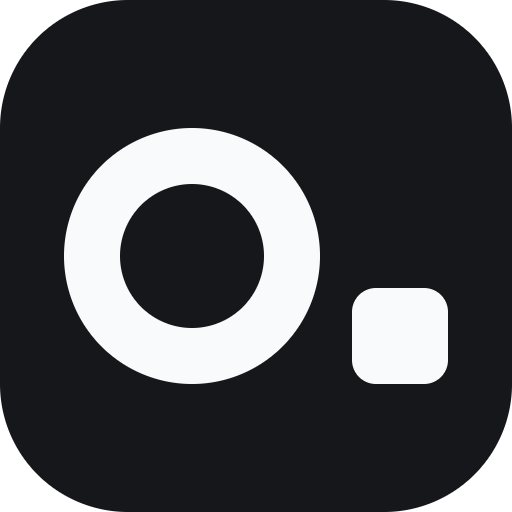
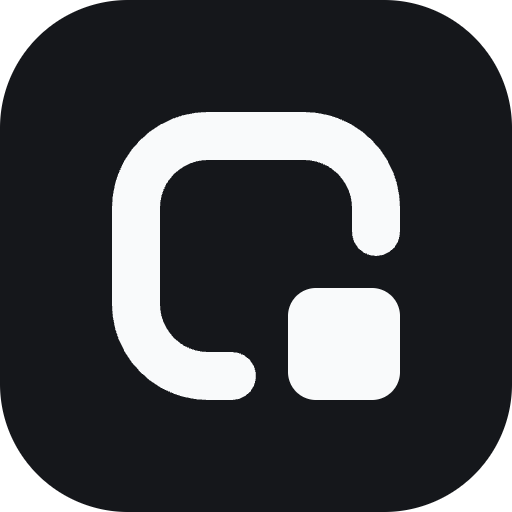
Marke: Bildmarke A „Eckstein“, Impressum mit Presio UG i. Gr.
Bildmarke auf Entwurf A umgestellt (Entscheidung Christoph, 20.10.2026): eckiges O als Rahmen, die
Einheit schließt die letzte Ecke. Alle Markendateien, PNG-Exporte, favicon.ico, Inline-Lockups der
Seiten und das Vorschaubild neu; BRAND.md mit Geometrie, bekannter Einschränkung bei 16 px und B als
dokumentierter Alternative.

Impressum und Datenschutz: Anbieter bzw. Verantwortlicher Presio UG (haftungsbeschränkt) i. Gr.,
Hohenzollernstr. 7, 80801 München, wie im Impressum von presio.eu. Offen bleiben Vertretung und
Telefon; der Entwurfsvermerk bleibt.

Claude-Session: https://claude.ai/code/session_013hiD8yTx4BCKTSzw96Dhdh

Changed region(s): [[0.125, 0.2188, 0.7812, 0.7812], [0.75, 0.5625, 0.875, 0.75]]

diff --git a/impressum.html b/impressum.html
@@ -24,8 +24,8 @@
       <svg class="lockup" viewBox="0 0 924.42 165" aria-hidden="true" focusable="false">
         <g transform="translate(0 15) scale(4.6875)">
           <rect class="lk-tile" width="32" height="32" rx="8"/>
-          <circle class="lk-ring" cx="12" cy="16" r="6.25" fill="none" stroke-width="3.5"/>
-          <rect class="lk-unit" x="22" y="18" width="6" height="6" rx="1.5"/>
+          <path class="lk-frame" d="M14.5 23.5H13a4.5 4.5 0 0 1-4.5-4.5v-6A4.5 4.5 0 0 1 13 8.5h6a4.5 4.5 0 0 1 4.5 4.5v1.5" fill="none" stroke-width="3" stroke-linecap="round" stroke-linejoin="round"/>
+          <rect class="lk-unit" x="18" y="18" width="7" height="7" rx="1.75"/>
         </g>
         <g transform="translate(202.5 40)" fill="none" stroke="currentColor">
           <path stroke-width="18" d="M607.13 50H514.42"/>
@@ -47,13 +47,15 @@
 <main id="inhalt" class="legal">
   <div class="wrap">
     <h1>Impressum</h1>
-    <p class="draft-banner"><strong>Entwurf – vor Veröffentlichung prüfen.</strong> Alle markierten Angaben fehlen noch und müssen vom Anbieter ergänzt und rechtlich geprüft werden.</p>
+    <p class="draft-banner"><strong>Entwurf – vor Veröffentlichung prüfen.</strong> Die markierten Angaben fehlen noch; alle Angaben müssen vom Anbieter ergänzt und rechtlich geprüft werden.</p>
 
     <h2>Angaben gemäß § 5 DDG</h2>
     <address>
-      <span class="ph">[Anbieter – Angabe folgt: Firma und Rechtsform]</span><br>
-      <span class="ph">[Straße und Hausnummer – Angabe folgt]</span><br>
-      <span class="ph">[Postleitzahl und Ort – Angabe folgt]</span>
+      Presio UG (haftungsbeschränkt) i. Gr.<br>
+      Unternehmergesellschaft (haftungsbeschränkt) in Gründung<br>
+      Hohenzollernstr. 7<br>
+      80801 München<br>
+      Deutschland
     </address>
 
     <h2>Vertreten durch</h2>
@@ -66,20 +68,22 @@
     </p>
 
     <h2>Registereintrag</h2>
-    <p><span class="ph">[Registergericht und Registernummer – Angabe folgt, sofern eingetragen]</span></p>
+    <p>Die Gesellschaft befindet sich in Gründung; die Eintragung ins Handelsregister ist in Vorbereitung.<br>
+      Voraussichtliches Registergericht: Amtsgericht München<br>
+      Registernummer: wird nach Eintragung ergänzt.</p>
 
     <h2>Umsatzsteuer-Identifikationsnummer</h2>
-    <p>Umsatzsteuer-Identifikationsnummer gemäß § 27a Umsatzsteuergesetz: <span class="ph">[USt-IdNr. – Angabe folgt, sofern vorhanden]</span></p>
+    <p>Umsatzsteuer-Identifikationsnummer gemäß § 27a Umsatzsteuergesetz: wird nach steuerlicher Erfassung ergänzt.</p>
 
     <h2>Verantwortlich für den Inhalt nach § 18 Abs. 2 MStV</h2>
-    <p><span class="ph">[Name und Anschrift – Angabe folgt]</span></p>
+    <p>Presio UG (haftungsbeschränkt) i. Gr., Hohenzollernstr. 7, 80801 München, Deutschland</p>
 
     <h2>Verbraucherstreitbeilegung</h2>
-    <p><span class="ph">[Angabe folgt – prüfen, ob und welche Angabe nach dem Verbraucherstreitbeilegungsgesetz nötig ist]</span></p>
+    <p>Wir sind nicht bereit oder verpflichtet, an Streitbeilegungsverfahren vor einer Verbraucherschlichtungsstelle teilzunehmen.</p>
 
     <h2>Schriften und Marke</h2>
     <p>Diese Website verwendet die Schriften Inter (The Inter Project Authors) und Geist Mono (The Geist Project Authors) unter der SIL Open Font License 1.1. Die Schriftdateien liegen auf diesem Server; die Lizenztexte stehen unter <a href="assets/fonts/OFL-Inter.txt">assets/fonts/OFL-Inter.txt</a> und <a href="assets/fonts/OFL-GeistMono.txt">assets/fonts/OFL-GeistMono.txt</a>.</p>
-    <p>Name und Zeichen „Ordaneo“: <span class="ph">[Inhaber der Marke – Angabe folgt]</span></p>
+    <p>Name und Zeichen „Ordaneo“: Presio UG (haftungsbeschränkt) i. Gr.</p>
 
     <p class="meta">Stand: Entwurf vom 20.10.2026</p>
   </div>

diff --git a/index.html b/index.html
@@ -36,8 +36,8 @@
       <svg class="lockup" viewBox="0 0 924.42 165" aria-hidden="true" focusable="false">
         <g transform="translate(0 15) scale(4.6875)">
           <rect class="lk-tile" width="32" height="32" rx="8"/>
-          <circle class="lk-ring" cx="12" cy="16" r="6.25" fill="none" stroke-width="3.5"/>
-          <rect class="lk-unit" x="22" y="18" width="6" height="6" rx="1.5"/>
+          <path class="lk-frame" d="M14.5 23.5H13a4.5 4.5 0 0 1-4.5-4.5v-6A4.5 4.5 0 0 1 13 8.5h6a4.5 4.5 0 0 1 4.5 4.5v1.5" fill="none" stroke-width="3" stroke-linecap="round" stroke-linejoin="round"/>
+          <rect class="lk-unit" x="18" y="18" width="7" height="7" rx="1.75"/>
         </g>
         <g transform="translate(202.5 40)" fill="none" stroke="currentColor">
           <path stroke-width="18" d="M607.13 50H514.42"/>
@@ -484,8 +484,8 @@
       <svg class="lockup" viewBox="0 0 924.42 165" role="img" aria-label="Ordaneo" focusable="false">
         <g transform="translate(0 15) scale(4.6875)">
           <rect class="lk-tile" width="32" height="32" rx="8"/>
-          <circle class="lk-ring" cx="12" cy="16" r="6.25" fill="none" stroke-width="3.5"/>
-          <rect class="lk-unit" x="22" y="18" width="6" height="6" rx="1.5"/>
+          <path class="lk-frame" d="M14.5 23.5H13a4.5 4.5 0 0 1-4.5-4.5v-6A4.5 4.5 0 0 1 13 8.5h6a4.5 4.5 0 0 1 4.5 4.5v1.5" fill="none" stroke-width="3" stroke-linecap="round" stroke-linejoin="round"/>
+          <rect class="lk-unit" x="18" y="18" width="7" height="7" rx="1.75"/>
         </g>
         <g transform="translate(202.5 40)" fill="none" stroke="currentColor">
           <path stroke-width="18" d="M607.13 50H514.42"/>

diff --git a/datenschutz.html b/datenschutz.html
@@ -24,8 +24,8 @@
       <svg class="lockup" viewBox="0 0 924.42 165" aria-hidden="true" focusable="false">
         <g transform="translate(0 15) scale(4.6875)">
           <rect class="lk-tile" width="32" height="32" rx="8"/>
-          <circle class="lk-ring" cx="12" cy="16" r="6.25" fill="none" stroke-width="3.5"/>
-          <rect class="lk-unit" x="22" y="18" width="6" height="6" rx="1.5"/>
+          <path class="lk-frame" d="M14.5 23.5H13a4.5 4.5 0 0 1-4.5-4.5v-6A4.5 4.5 0 0 1 13 8.5h6a4.5 4.5 0 0 1 4.5 4.5v1.5" fill="none" stroke-width="3" stroke-linecap="round" stroke-linejoin="round"/>
+          <rect class="lk-unit" x="18" y="18" width="7" height="7" rx="1.75"/>
         </g>
         <g transform="translate(202.5 40)" fill="none" stroke="currentColor">
           <path stroke-width="18" d="M607.13 50H514.42"/>
@@ -51,8 +51,8 @@
 
     <h2>1. Verantwortlicher</h2>
     <address>
-      <span class="ph">[Anbieter – Angabe folgt: Firma und Rechtsform]</span><br>
-      <span class="ph">[Anschrift – Angabe folgt]</span><br>
+      Presio UG (haftungsbeschränkt) i. Gr.<br>
+      Hohenzollernstr. 7, 80801 München, Deutschland<br>
       E-Mail: <a href="mailto:kontakt@ordaneo.de">kontakt@ordaneo.de</a>
     </address>
     <p>Datenschutzbeauftragte(r): <span class="ph">[Angabe folgt, sofern benannt]</span></p>

diff --git a/assets/site.css b/assets/site.css
@@ -59,7 +59,7 @@
   --band-accent: #ec955c;     /* Kupfer hell: Textstufe auf Graphit */
   --band-line: #2c3038;
   --logo-tile: #15171b;
-  --logo-ring: #f9fafb;
+  --logo-line: #f9fafb;
   --logo-unit: #c0500c;
   --shot-hatch: rgba(21, 23, 27, 0.045);
   --shadow: 0 1px 2px rgba(16, 18, 22, 0.05), 0 12px 32px -12px rgba(16, 18, 22, 0.14);
@@ -93,7 +93,7 @@
     --band-surface: #1b1e23;
     --band-line: #2c3038;
     --logo-tile: #f3f4f6;
-    --logo-ring: #0e1114;
+    --logo-line: #0e1114;
     --logo-unit: #c0500c;
     --shot-hatch: rgba(243, 244, 246, 0.04);
     --shadow: 0 1px 2px rgba(0, 0, 0, 0.3), 0 16px 40px -16px rgba(0, 0, 0, 0.6);
@@ -143,7 +143,7 @@ code, .mono { font-family: var(--mono); font-size: 0.92em; font-variant-numeric:
 /* ---------- Logo ---------- */
 .lockup { height: 26px; width: auto; color: var(--fg); }
 .lockup .lk-tile { fill: var(--logo-tile); }
-.lockup .lk-ring { stroke: var(--logo-ring); }
+.lockup .lk-frame { stroke: var(--logo-line); }
 .lockup .lk-unit { fill: var(--logo-unit); }
 
 /* ---------- Kopf ---------- */

diff --git a/404.html b/404.html
@@ -24,8 +24,8 @@
       <svg class="lockup" viewBox="0 0 924.42 165" aria-hidden="true" focusable="false">
         <g transform="translate(0 15) scale(4.6875)">
           <rect class="lk-tile" width="32" height="32" rx="8"/>
-          <circle class="lk-ring" cx="12" cy="16" r="6.25" fill="none" stroke-width="3.5"/>
-          <rect class="lk-unit" x="22" y="18" width="6" height="6" rx="1.5"/>
+          <path class="lk-frame" d="M14.5 23.5H13a4.5 4.5 0 0 1-4.5-4.5v-6A4.5 4.5 0 0 1 13 8.5h6a4.5 4.5 0 0 1 4.5 4.5v1.5" fill="none" stroke-width="3" stroke-linecap="round" stroke-linejoin="round"/>
+          <rect class="lk-unit" x="18" y="18" width="7" height="7" rx="1.75"/>
         </g>
         <g transform="translate(202.5 40)" fill="none" stroke="currentColor">
           <path stroke-width="18" d="M607.13 50H514.42"/>

diff --git a/tools/og.html b/tools/og.html
@@ -33,8 +33,8 @@
   <svg class="lockup" viewBox="0 0 924.42 165" role="img" aria-label="Ordaneo" color="#f9fafb">
     <g transform="translate(0 15) scale(4.6875)">
       <rect width="32" height="32" rx="8" fill="#f3f4f6"/>
-      <circle cx="12" cy="16" r="6.25" fill="none" stroke="#0e1114" stroke-width="3.5"/>
-      <rect x="22" y="18" width="6" height="6" rx="1.5" fill="#c0500c"/>
+      <path d="M14.5 23.5H13a4.5 4.5 0 0 1-4.5-4.5v-6A4.5 4.5 0 0 1 13 8.5h6a4.5 4.5 0 0 1 4.5 4.5v1.5" fill="none" stroke="#0e1114" stroke-width="3" stroke-linecap="round" stroke-linejoin="round"/>
+      <rect x="18" y="18" width="7" height="7" rx="1.75" fill="#c0500c"/>
     </g>
     <g transform="translate(202.5 40)" fill="none" stroke="currentColor">
       <path stroke-width="18" d="M607.13 50H514.42"/>

diff --git a/assets/brand/BRAND.md b/assets/brand/BRAND.md
@@ -1,21 +1,21 @@
 # Ordaneo · Marke
 
-Stand: 20.10.2026 · Version 1.0 · ersetzt den Arbeitstitel „Merxo“
+Stand: 20.10.2026 · Version 1.1 (Bildmarke A „Eckstein“) · ersetzt den Arbeitstitel „Merxo“
 
 Ordaneo ist eine mandantenfähige Warenwirtschaft für Lager, Filialen, Handel und Großhandel. Der Name kommt von
 *ordnen* bzw. lateinisch *ordo*, Ordnung und Reihe. Die Marke soll genau das ausstrahlen: ruhig, präzise,
 vertrauenswürdig. Sie bleibt wie die Anwendung bewusst farblos (Graphit und Hell); Farbe bringt in der Anwendung der
 Mandant mit, auf der Website eine einzige Akzentfarbe.
 
-## 1 · Idee: „o.“
+## 1 · Idee: „Eckstein“
 
-Die Bildmarke zeigt ein **o** und einen **Punkt**.
+Die Bildmarke zeigt ein **eckiges O**, dessen letzte Ecke die **Einheit** schließt.
 
-- Das **o** ist der erste und letzte Buchstabe von „ordaneo“ und steht für *ordo*: ein geschlossener, gleichmäßiger Kreis.
-- Der **Punkt** ist die „Einheit“, die schon das alte Zeichen kannte: ein kleines Quadrat, das genau auf der Grundlinie
-  an seinem Platz steht. Gleichzeitig ist er der Schlusspunkt: gebucht, gezählt, abgeschlossen.
-- Rund gegen eckig ergibt den Kontrast zwischen Ordnung (Kreis) und Ware (Quadrat), ohne dass Kiste, Einkaufswagen,
-  Zahnrad oder Pfeil nötig wären.
+- Das **O** ist der erste Buchstabe von „ordaneo“ und steht für *ordo*: ein Rahmen mit gleichmäßig gerundeten Ecken,
+  in dem alles seinen Platz hat.
+- Die **Einheit** ist das kleine Quadrat, das schon das alte Zeichen kannte. Sie sitzt dort, wo der Rahmen offen ist,
+  und macht ihn vollständig: Die Ware kommt an ihren Platz, der Vorgang ist abgeschlossen.
+- Rahmen und Einheit bleiben getrennt. So entsteht die Form ohne Kiste, Einkaufswagen, Zahnrad oder Pfeil.
 
 ## 2 · Entwürfe und Entscheidung
 
@@ -24,22 +24,24 @@ kamen in den Vergleich:
 
 | Entwurf | Idee | Ergebnis |
 |---|---|---|
-| A · Eckstein | eckiges O als Rahmen, die Einheit schließt die letzte offene Ecke | kräftige Silhouette, liest sich bei 16 px aber als „G“ oder „Q“ |
-| **B · o-Punkt** | o und Punkt, die Einheit auf der Grundlinie | **gewählt** |
+| **A · Eckstein** | eckiges O als Rahmen, die Einheit schließt die letzte offene Ecke | **gewählt** (Christoph Gerhardt, 20.10.2026) |
+| B · o-Punkt | o und Punkt, die Einheit auf der Grundlinie | Alternative, siehe unten |
 | C · Platz | Rahmen mit der Einheit genau in der Mitte | am ruhigsten, aber verwechselbar mit „Aufnahme stoppen“ und einem Optionsfeld; in Rot (Mandantenfarbe) wäre es ein Aufnahmeknopf |
 
 Verworfen wurden außerdem drei Zeilen mit Einheit (wirkt wie ein Listen- oder Menü-Symbol), ein Anschlagwinkel (wirkt
 wie Diagrammachsen), ein Fach in U-Form (liest sich als „U“), ein offener Ring mit Einheit (wirkt wie „Neu laden“) und
 gedrehte Varianten von A (wirken wie „C“ bzw. „Rückgängig“).
 
-**Warum B:**
+**Warum A:** kräftige, eigenständige Silhouette; die Kachelform wiederholt sich im Zeichen, und die Einheit hat eine
+klare Aufgabe (sie schließt den Rahmen). Genau ein Element, die Einheit, kann die Hausfarbe des Mandanten tragen.
 
-1. **Bei 16 px eindeutig.** Ring und Punkt bleiben getrennt, der Punkt sitzt auf ganzen Pixeln (16 und 32 px scharf),
-   nichts läuft zu.
-2. **Kein bekanntes Bedienelement.** A erinnert an Buchstaben, C an Medien- und Formular-Symbole; B nicht.
-3. **Trägt die Hausfarbe.** Wie bisher kann genau ein Element die Farbe des Mandanten annehmen. Ein farbiger Punkt neben
-   einem graphitfarbenen o wirkt bei jeder Farbe ruhig, auch bei Rot oder Gelb.
-4. **Passt zur Wortmarke.** Der Ring ist derselbe geometrische Kreis wie die beiden o in „ordaneo“.
+**Bekannte Einschränkung:** Bei 16 px kann das Zeichen als „G“ oder „Q“ gelesen werden. Die Einheit liegt bei 32 px
+auf ganzen Pixeln, bei 16 px ist ihre rechte und untere Kante eine halbe Pixelreihe weich. Eine Verschiebung um höchstens
+0,5 Einheiten macht nicht beide Kanten scharf; die Geometrie bleibt deshalb wie entworfen.
+
+**Alternative B „o-Punkt“** (nicht verwendet, zur Dokumentation): Kreis um x 12 / y 16, Radius 6,25, Strichstärke 3,5;
+Einheit 6 × 6 bei x 22 / y 18, Radius 1,5. Bei 16 px eindeutiger, weil Kreis und Punkt nicht an Buchstaben erinnern;
+die Dateien liegen nicht mehr im Ordner, lassen sich aber mit diesen Maßen neu erzeugen.
 
 ## 3 · Bildmarke: Geometrie
 
@@ -48,27 +50,29 @@ Raster 32 × 32, drei Elemente, gleicher Aufbau wie das bisherige Zeichen (gleic
 | Element | Geometrie | Farbe hell | Farbe dunkel |
 |---|---|---|---|
 | Kachel | Quadrat 32 × 32, Eckenradius 8 | `--color-inverse` (Graphit `#15171b`) | `--color-inverse` (`#f3f4f6`) |
-| Ring (o) | Kreis um x 12 / y 16, Radius 6,25 (Mittellinie), Strichstärke 3,5 | `--color-fg-inverse` | `--color-fg-inverse` |
-| Einheit (Punkt) | Quadrat 6 × 6 bei x 22 / y 18, Eckenradius 1,5 | `--color-logo-unit`: ohne Hausfarbe wie der Ring, mit Hausfarbe `accent-400` | ohne Hausfarbe wie der Ring, mit Hausfarbe `accent-600` |
+| Rahmen (O) | offener Linienzug, Mittellinie x 8,5 bis 23,5 und y 8,5 bis 23,5, Eckenradius 4,5, Strichstärke 3, runde Enden; offen zwischen x 14,5 (unten) und y 14,5 (rechts) | `--color-fg-inverse` | `--color-fg-inverse` |
+| Einheit | Quadrat 7 × 7 bei x 18 / y 18, Eckenradius 1,75 | `--color-logo-unit`: ohne Hausfarbe wie der Rahmen, mit Hausfarbe `accent-400` | ohne Hausfarbe wie der Rahmen, mit Hausfarbe `accent-600` |
 
-Kontrollmaße: Außenkanten des Rings bei x 4 bis 20 und y 8 bis 24; Abstand Ring–Einheit 2; Einheit unten bündig mit
-dem Ring (y 24). Das Zeichen ist im Raster genau mittig (x 4 bis 28, y 8 bis 24). Die Einheit liegt auf geraden
-Koordinaten und ist deshalb bei 16 und 32 px pixelscharf.
+Kontrollmaße: Außenkanten des Rahmens bei x 7 bis 25 und y 7 bis 25; die Einheit schließt bündig mit der rechten und
+unteren Außenkante (25); Abstand zwischen den runden Enden des Rahmens und der Einheit 2. Das Zeichen ist im Raster
+genau mittig (7 bis 25 in beiden Richtungen). Bei 32 px liegen Rahmen und Einheit auf ganzen Pixeln.
 
 ```svg
 <svg xmlns="http://www.w3.org/2000/svg" viewBox="0 0 32 32" role="img" aria-label="Ordaneo">
   <rect width="32" height="32" rx="8" fill="var(--color-inverse, #15171b)"/>
-  <circle cx="12" cy="16" r="6.25" fill="none" stroke="var(--color-fg-inverse, #f9fafb)" stroke-width="3.5"/>
-  <rect x="22" y="18" width="6" height="6" rx="1.5" fill="var(--color-logo-unit, #f9fafb)"/>
+  <path d="M14.5 23.5H13a4.5 4.5 0 0 1-4.5-4.5v-6A4.5 4.5 0 0 1 13 8.5h6a4.5 4.5 0 0 1 4.5 4.5v1.5" fill="none"
+        stroke="var(--color-fg-inverse, #f9fafb)" stroke-width="3" stroke-linecap="round" stroke-linejoin="round"/>
+  <rect x="18" y="18" width="7" height="7" rx="1.75" fill="var(--color-logo-unit, #f9fafb)"/>
 </svg>
 ```
 
 **Varianten**
 
-- **Ohne Kachel** (`ordaneo-symbol.svg`; Inline-Zeichen, KI-Assistent, Stempel): kräftiger gezeichnet. Kreis um
-  x 11 / y 16, Radius 7,75, Strichstärke 4; Einheit 7 × 7 bei x 23 / y 18,75, Radius 1,75. Farbe `currentColor`; in
-  der Anwendung darf die Einheit `--color-accent` tragen.
-- **Einfarbig** (Belegdruck schwarz-weiß, Stempel): Einheit in derselben Farbe wie der Ring. Das ist zugleich die
+- **Ohne Kachel** (`ordaneo-symbol.svg`; Inline-Zeichen, KI-Assistent, Stempel): dieselbe Form um den Mittelpunkt auf
+  das 1,5-Fache vergrößert, Strichstärke 4,5; Rahmen-Mittellinie x/y 4,75 bis 27,25, Eckenradius 6,75; Einheit
+  10,5 × 10,5 bei x 19 / y 19, Radius 2,625. Außenmaß 2,5 bis 29,5. Farbe `currentColor`; in der Anwendung darf die
+  Einheit `--color-accent` tragen.
+- **Einfarbig** (Belegdruck schwarz-weiß, Stempel): Einheit in derselben Farbe wie der Rahmen. Das ist zugleich die
   Rückfallfarbe der Datei, wenn keine Variablen gesetzt sind.
 - **Dunkel** (`ordaneo-mark-dark.svg`): helle Kachel `#f3f4f6`, Zeichen `#0e1114`, feste Farben für dunkle Flächen
   außerhalb der Anwendung.
@@ -95,8 +99,8 @@ Die Pfade sind Linienzüge (`stroke`). In Figma oder Illustrator lassen sie sich
 
 - Kachelhöhe = 1,5 × x-Höhe, vertikal mittig zur x-Höhe (die Oberlänge des d ragt darüber hinaus).
 - Abstand Kachel–Wortmarke = 0,35 × Kachelhöhe.
-- Nur als ganze Datei verwenden (`ordaneo-lockup.svg` bzw. `-dark.svg`), nicht nachbauen. Die Anwendung setzt die
-  Wortmarke derzeit als Text (Inter 600); beim Umbenennen sollte `Logo.tsx` im Lockup die Wortmarken-Pfade verwenden.
+- Nur als ganze Datei verwenden (`ordaneo-lockup.svg` bzw. `-dark.svg`), nicht nachbauen. In der Anwendung zeichnet
+  `Logo.tsx` den Lockup mit denselben Wortmarken-Pfaden.
 
 ## 6 · Farben
 
@@ -105,7 +109,7 @@ Die Pfade sind Linienzüge (`stroke`). In Figma oder Illustrator lassen sie sich
 | Graphit | `#15171b` (neutral-900) | Kachel hell, Wortmarke hell, Text |
 | Hell | `#f9fafb` (neutral-50) | Zeichen auf Graphit, Wortmarke dunkel, Seitengrund hell |
 | Kachel dunkel | `#f3f4f6` (neutral-100) | Kachel auf dunklem Grund (wie im dunklen Theme) |
-| Zeichen dunkel | `#0e1114` (neutral-950) | Ring und Einheit auf heller Kachel |
+| Zeichen dunkel | `#0e1114` (neutral-950) | Rahmen und Einheit auf heller Kachel |
 | **Akzent Kupfer** | **`#C0500C`** | nur Website: Hauptaktion, Links auf hellem Grund, wahlweise die Einheit im Zeichen |
 | Kupfer hell | `#EC955C` | Links und kleine Akzentschrift auf dunklem Grund; Schaltfläche dunkel mit Graphit-Schrift |
 | Kupfer tief | `#A4430A` | Hover/gedrückt auf hellem Grund |
@@ -114,7 +118,7 @@ Die Pfade sind Linienzüge (`stroke`). In Figma oder Illustrator lassen sie sich
 
 Warum Kupfer: ein warmer, ruhiger Gegenpol zu Graphit, klar unterscheidbar vom üblichen Software-Blau und von den
 Statusfarben der Anwendung (Fehler Rot bei Farbton 27, Warnung Bernstein bei 80; Kupfer liegt bei 45). Auf einem Beleg
-erinnert er an den Buchungsstempel: der Punkt in Kupfer heißt „erledigt“. In OKLCH: `oklch(0.569 0.159 44.5)`.
+erinnert er an den Buchungsstempel: die Einheit in Kupfer heißt „erledigt“. In OKLCH: `oklch(0.569 0.159 44.5)`.
 
 Kontraste (WCAG 2.2, gerechnet):
 
@@ -154,7 +158,7 @@ die einzige Farbe.
 | Browser-Tab | `favicon.svg` (wechselt mit `prefers-color-scheme` selbst auf die helle Kachel), Ersatz `favicon-32.png` |
 | Homescreen, PWA | `apple-touch-icon.png` (180, randlos), `icon-192.png`, `icon-512.png` (Kachel mit transparenten Ecken), `icon-maskable-512.png` (randlos, Zeichen auf 72 %, innerhalb der sicheren Zone von 80 %) |
 
-Nicht erlaubt: Zeichen verzerren, drehen oder mit Schatten versehen; den Ring einfärben; die Einheit rund machen;
+Nicht erlaubt: Zeichen verzerren, drehen oder mit Schatten versehen; den Rahmen einfärben oder schließen; die Einheit rund machen;
 Kachel und Zeichen in derselben Farbe; Lockup aus Bildmarke und gesetzter Schrift nachbauen; Wortmarke in Versalien
 oder mit großem O.
 
@@ -182,10 +186,9 @@ Artikelnummern, EAN und Code. Beide nutzt auch die Anwendung, Website und Produk
 | `favicon.svg` | Favicon mit Umschaltung hell/dunkel |
 | `favicon-32.png`, `apple-touch-icon.png`, `icon-192.png`, `icon-512.png`, `icon-maskable-512.png` | PNG-Exporte, in Chrome gerendert |
 
-## 11 · Übernahme in die Anwendung (Hinweis, nicht umgesetzt)
+## 11 · Übernahme in die Anwendung
 
-`ordaneo-mark.svg` passt 1:1 an die Stelle von `web/public/merxo-mark.svg` (gleiche Variablen, gleiche
-Rückfallfarben, `role="img"`, `aria-label`). Zusätzlich anzupassen: die Inline-Geometrie in `web/ui/Logo.tsx`
-(Kachel-Variante: Kreis und Einheit aus Abschnitt 3; Variante ohne Kachel: Maße aus „Varianten“), die PNGs unter
-`web/public/icons/`, der Favicon-Verweis in `web/index.html`, Name und Wortmarke in der Markenquelle (`brand`) sowie
-Abschnitt 1.2/1.3 des Design-Systems.
+Umgesetzt im Zweig `feature/ordaneo-name` der Anwendung: `web/public/ordaneo-mark.svg` und `favicon.svg` (gleiche
+Variablen und Rückfallfarben wie hier), die Inline-Geometrie in `web/ui/Logo.tsx` (Kachel-Variante aus Abschnitt 3,
+Variante ohne Kachel aus „Varianten“, Lockup mit den Wortmarken-Pfaden), die PNGs unter `web/public/icons/`, App-Symbole,
+Startbilder und Store-Grafiken der Handy-Apps sowie Abschnitt 1.2/1.3 des Design-Systems.

diff --git a/README.md b/README.md
@@ -117,8 +117,9 @@ DMARC-Einträge des Mail-Anbieters diese Vorlage.
 
 ## Offene Punkte vor der Veröffentlichung
 
-- **Impressum und Datenschutz:** alle markierten Angaben ergänzen (Anbieter, Anschrift, Vertretung, Register,
-  USt-IdNr., Aufsichtsbehörde, Postfach-Anbieter, Grundlage der Übermittlung an GitHub) und rechtlich prüfen lassen;
+- **Impressum und Datenschutz:** Anbieter ist die Presio UG (haftungsbeschränkt) i. Gr., Hohenzollernstr. 7,
+  80801 München (Angaben wie im Impressum von presio.eu). Noch offen: Vertretung (Geschäftsführung), Telefon,
+  Aufsichtsbehörde, Postfach-Anbieter, Grundlage der Übermittlung an GitHub; alles rechtlich prüfen lassen;
   dann die Hinweise „Entwurf – vor Veröffentlichung prüfen“ entfernen.
 - **Postfach `kontakt@ordaneo.de` muss noch eingerichtet werden** (MX und SPF/DKIM/DMARC bei Squarespace). Bis dahin
   laufen E-Mail-Links ins Leere.
